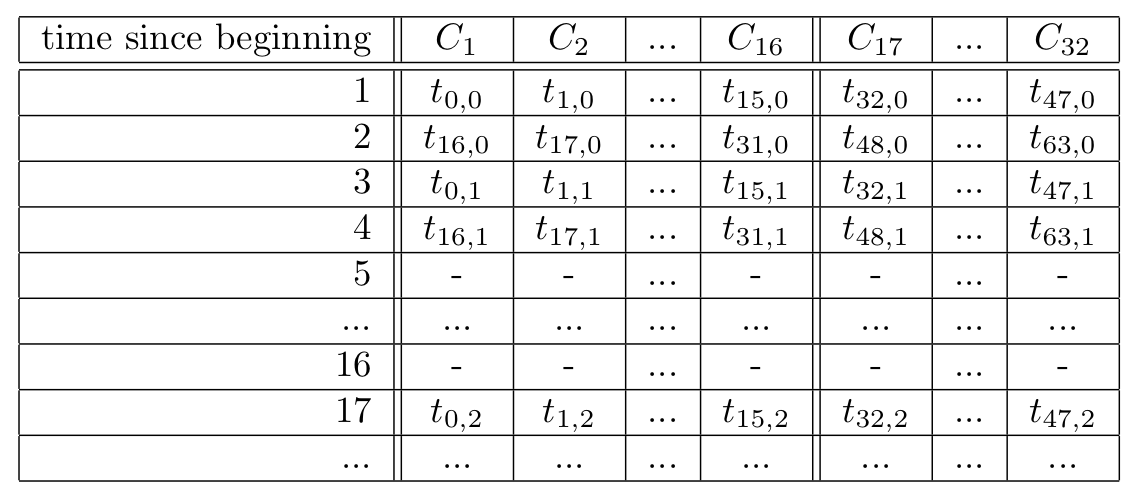
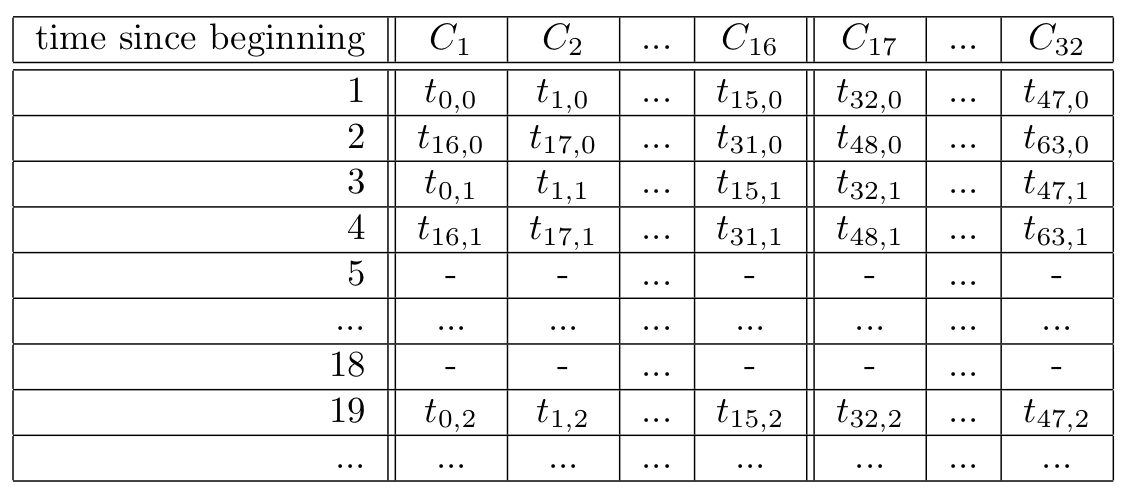
updated the table for Plength of 18

Changed region(s): [[0.0, 0.0304, 0.9929, 1.0]]

diff --git a/microbenchmarking.tex b/microbenchmarking.tex
@@ -142,7 +142,7 @@
     	   2 & $t_{16,0}$ & $t_{17,0}$ & ... & $t_{31,0}$ & $t_{48, 0}$ & ... & $t_{63, 0}$ \\ \hline
     	   3 & $t_{64,0}$ & $t_{65,0}$ & ... & $t_{79,0}$ & $t_{96, 0}$ & ... & $t_{111, 0}$ \\ \hline
     	   ... & ... & ... & ... & ... & ... & ... & ... \\ \hline
-    	   16 & $t_{464,0}$ & $t_{465,0}$ & ... & $t_{479,0}$ & $t_{496,0}$ & ... & $t_{511, 0}$ \\ \hline
+    	   16 & $t_{528,0}$ & $t_{529,0}$ & ... & $t_{543,0}$ & $t_{560,0}$ & ... & $t_{575, 0}$ \\ \hline
     	   17 & $t_{0,1}$ & $t_{1,1}$ & ... & $t_{15,1}$ & $t_{32, 1}$ & ... & $t_{47, 1}$ \\ \hline
     	   ... & ... & ... & ... & ... & ... & ... & ... \\ \hline
   	\end{tabular}
@@ -165,8 +165,8 @@
     	   2 & $t_{16,0}$ & $t_{17,0}$ & ... & $t_{31,0}$ & - & ... & - \\ \hline
     	   3 & $t_{32,0}$ & $t_{33,0}$ & ... & $t_{47,0}$ & - & ... & - \\ \hline
     	   ... & ... & ... & ... & ... & ... & ... & ... \\ \hline
-    	   16 & $t_{240,0}$ & $t_{241,0}$ & ... & $t_{255,0}$ & - & ... & - \\ \hline
-    	   17 & $t_{0,1}$ & $t_{1,1}$ & ... & $t_{15,1}$ & - & ... & - \\ \hline
+    	   18 & $t_{272,0}$ & $t_{273,0}$ & ... & $t_{287,0}$ & - & ... & - \\ \hline
+    	   19 & $t_{0,1}$ & $t_{1,1}$ & ... & $t_{15,1}$ & - & ... & - \\ \hline
     	   ... & ... & ... & ... & ... & ... & ... & ... \\ \hline
   	\end{tabular}
   	\captionsetup{justification=centering}
@@ -200,10 +200,10 @@
     	   2 & $t_{16,0}$ & $t_{17,0}$ & ... & $t_{31,0}$ & $t_{48, 0}$ & ... & $t_{63, 0}$ \\ \hline
     	   3 & $t_{64,0}$ & $t_{65,0}$ & ... & $t_{79,0}$ & $t_{96, 0}$ & ... & $t_{111, 0}$ \\ \hline
     	   ... & ... & ... & ... & ... & ... & ... & ... \\ \hline
-    	   16 & $t_{464,0}$ & $t_{465,0}$ & ... & $t_{479,0}$ & $t_{496,0}$ & ... & $t_{511, 0}$ \\ \hline
-    	   17 & $t_{512,0}$ & - & ... & - & - & ... & - \\ \hline
-    	   18 & - & - & ... & - & - & ... & - \\ \hline
-    	   19 & $t_{0,1}$ & $t_{1,1}$ & ... & $t_{15,1}$ & $t_{32,1}$ & ... & $t_{47,1}$ \\ \hline
+    	   18 & $t_{528,0}$ & $t_{529,0}$ & ... & $t_{543,0}$ & $t_{560,0}$ & ... & $t_{575, 0}$ \\ \hline
+    	   19 & $t_{576,0}$ & - & ... & - & - & ... & - \\ \hline
+    	   20 & - & - & ... & - & - & ... & - \\ \hline
+    	   21 & $t_{0,1}$ & $t_{1,1}$ & ... & $t_{15,1}$ & $t_{32,1}$ & ... & $t_{47,1}$ \\ \hline
     	   ... & ... & ... & ... & ... & ... & ... & ... \\ \hline
   	\end{tabular}
   	\captionsetup{justification=centering}
@@ -343,8 +343,8 @@ As there is no dependency between the even and odd instructions and there isn't 
            4 & $t_{16,1}$ & $t_{17,1}$ & ... & $t_{31,1}$ & $t_{48, 1}$ & ... & $t_{63, 1}$ \\ \hline
     	   5 & - & - & ... & - & - & ... & - \\ \hline
     	   ... & ... & ... & ... & ... & ... & ... & ... \\ \hline
-    	   16 & - & - & ... & - & - & ... & - \\ \hline
-    	   17 & $t_{0,2}$ & $t_{1,2}$ & ... & $t_{15,2}$ & $t_{32,2}$ & ... & $t_{47,2}$ \\ \hline
+    	   18 & - & - & ... & - & - & ... & - \\ \hline
+    	   19 & $t_{0,2}$ & $t_{1,2}$ & ... & $t_{15,2}$ & $t_{32,2}$ & ... & $t_{47,2}$ \\ \hline
     	   ... & ... & ... & ... & ... & ... & ... & ... \\ \hline
   	\end{tabular}
   	\captionsetup{justification=centering}
